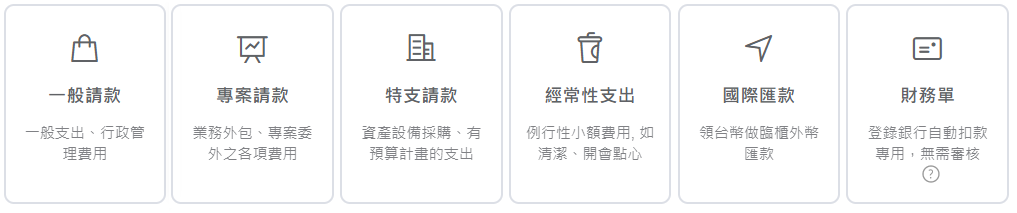
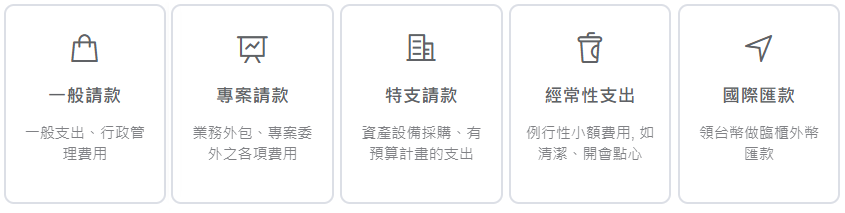
部分文字微調 匯款明細段落調整

diff --git a/docs/finance/finance/remittances/README.md b/docs/finance/finance/remittances/README.md
@@ -1,11 +1,15 @@
 # 填寫匯費
 
+請款與匯款以**帳款金額** 為主，若有產生手續費或匯費需另外填寫。  
 ![匯款明細查詢](./remittances-1.png)
 
-選擇查詢時間後，點選要登載匯費款項右方的 **『修改匯費』**按鈕。  
+## Step 1 :選擇查詢時間，點選右方 **『修改匯費』** 按鈕。
+
 ![匯款明細查詢](./remittances-2.png)
 
-![匯費填寫](./remittance.png)
-按下『送出』即完成。  
+![匯費填寫](./remittances-3.png)
+
+## Step 2 :按下『送出』即完成。
+
 費用自動產生在 **財務收支** 列表。  
 ![財務收支無法編輯匯費](./edit-remittance.png)

diff --git a/docs/finance/payment/create-payment-finance/README.md b/docs/finance/payment/create-payment-finance/README.md
@@ -1,7 +1,7 @@
 # 建立"財務單"
 
 限有付款權限的人員操作。  
-使用情況為 **「營業費用」** 的水電、中華電信、停車費或設定銀行自動扣款。
+使用情況為公司已辦理銀行自動扣繳，例如：水電、中華電信、停車費……
 
 ## Step 1：新增請款單
 

diff --git a/docs/finance/payment/done/README.md b/docs/finance/payment/done/README.md
@@ -11,5 +11,5 @@
 寫明原因，**送出退件** ，將請款單退回申請人。  
 ![確認](./sure.png)
 
-『確認付款』後，列表會顯示完成  
+按 **『確認付款』** 後，列表會顯示完成  
 ![完成](./done.png)
